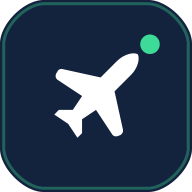
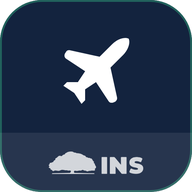
El correo de pólizas y el ícono de la app estrenan la marca de la casa
El correo que recibe el cliente pasa a la misma estética del aviso de cobro
y las cotizaciones de autos:

- Encabezado navy PLANO con el logo del INS. Se va el degradado: Outlook no
  lo dibuja y el correo se veía distinto según el programa.
- Filete de marca 60/25/10/5 bajo el encabezado, el mismo de los tres correos
  del cotizador.
- Los datos del viaje dejan las pastillitas de colores apiladas y pasan a
  bloques sobrios: rótulo en versalitas, el dato debajo, y los gastos médicos
  como la cifra grande que son (antes: 13 px al final de la fila).
- El número de póliza va dibujado como el sello del documento, con la banda
  "NÚMERO PÓLIZA INS" — el equivalente de la placa del cliente en autos.
  El ancho lo manda el número, no la banda.
- Pie navy con el logotipo SDI full color como IMAGEN (img/sdi-logo-email.png,
  el MISMO archivo del cotizador) y la nota legal de tres líneas. Va como
  imagen porque su tipografía está vectorizada y en correo las fuentes web no
  cargan: hecho con texto saldría en Arial.
- Fuera los emojis y las barras de color a la izquierda.

Las celdas que el PDF no trajo NO se dibujan: sin guiones ni datos inventados.
Verificado con dos viajeros y con uno solo.

Ícono de la PWA: se quita el punto verde y entra el INS al pie del avión, en
su propia banda (opción C de tres maquetas, elegida por JC). El navy #13233E y
el aro teal del ícono de hoy se conservan. El maskable lleva el dibujo al 80 %
[…]

Changed region(s): [[0.2812, 0.1562, 0.8438, 0.7188], [0.0, 0.0, 1.0, 1.0], [0.25, 0.7812, 0.75, 0.9375]]

diff --git a/agente/email.js b/agente/email.js
@@ -1,17 +1,120 @@
-// agente/email.js — HTML del correo (encabezado navy) + MIME multipart + envío Gmail.
+// agente/email.js — HTML del correo (marca SDI) + MIME multipart + envío Gmail.
+//
+// La imagen del correo es la MISMA de las cotizaciones de autos (25 ago 2026):
+//   - Encabezado navy PLANO con el logo del INS. Nada de degradados: Outlook
+//     no los dibuja y el correo se veía distinto según el programa.
+//   - Filete de marca 60/25/10/5 bajo el encabezado.
+//   - Los datos del viaje en bloques sobrios: rótulo en versalitas sobre una
+//     regla de 1 px. Sin barras de color a la izquierda (el tic de plantilla
+//     automática que JC pidió sacar) y sin emojis.
+//   - Pie navy con el logotipo SDI full color. Va como IMAGEN y no dibujado
+//     con texto: su tipografía está vectorizada en el kit y en correo las
+//     fuentes web no cargan, así que hecho con texto saldría en Arial.
 window.VEmail = (function () {
+  const SDI_COLORES = ['#0369A1', '#0D9488', '#EA580C', '#C9A227'];
+  const SDI_NAVY   = '#0c2340';
+  const SDI_VERDE  = '#047857';   // 5,48:1 con letra blanca
+  const SDI_GRIS   = '#64748b';
+  const SDI_LINEA  = '#e2e8f0';
+  const FF   = "'Space Grotesk','Poppins',Arial,Helvetica,sans-serif";
+  const FTXT = "'Inter',Arial,Helvetica,sans-serif";
+
   function esc(s) { return String(s == null ? '' : s).replace(/[&<>"']/g, c => ({ '&': '&amp;', '<': '&lt;', '>': '&gt;', '"': '&quot;', "'": '&#39;' }[c])); }
 
-  function filaViajero(v) {
-    const chips = [
-      v.poliza && `<span style="font-family:monospace;background:#e6f1fb;color:#0c447c;padding:3px 10px;border-radius:6px;font-size:14px;font-weight:700">${esc(v.poliza)}</span>`,
-      v.destino && `<span style="background:#eef2f7;color:#475569;padding:2px 8px;border-radius:6px;font-size:12px">${esc(v.destino)}</span>`,
-      (v.vigenciaDesde && v.vigenciaHasta) && `<span style="background:#eef2f7;color:#475569;padding:2px 8px;border-radius:6px;font-size:12px">${esc(v.vigenciaDesde)} &rarr; ${esc(v.vigenciaHasta)}</span>`
-    ].filter(Boolean).join(' ');
-    const med = v.gastosMedicos ? `<div style="margin-top:8px;font-size:13px;color:#0f6e56;font-weight:600">&#127973; Gastos médicos contratados: ${esc(v.gastosMedicos)}</div>` : '';
-    return `<tr><td style="padding:10px 12px;border-bottom:1px solid #e5e7eb">
-      <div style="font-weight:600;font-size:14px;color:#0f172a">${esc(v.cliente)}</div>
-      <div style="margin-top:6px;line-height:2">${chips}</div>${med}</td></tr>`;
+  /** Filete de marca: cuatro celdas de color 60/25/10/5. No es un degradado a propósito. */
+  function filete() {
+    const p = [60, 25, 10, 5];
+    return '<tr><td style="padding:0;font-size:0;line-height:0;">' +
+      '<table width="100%" cellpadding="0" cellspacing="0" border="0" role="presentation" ' +
+      'style="border-collapse:collapse;table-layout:fixed;"><tr>' +
+      SDI_COLORES.map(function (c, i) {
+        return '<td bgcolor="' + c + '" width="' + p[i] + '%" height="4" style="background:' + c +
+          ';width:' + p[i] + '%;height:4px;line-height:4px;font-size:0;">&nbsp;</td>';
+      }).join('') +
+      '</tr></table></td></tr>';
+  }
+
+  /** Rótulo en versalitas: el mismo de las cotizaciones de autos. */
+  function rotulo(t) {
+    return '<p style="margin:0 0 4px;font-size:10px;font-weight:700;color:' + SDI_GRIS +
+      ';letter-spacing:0.1em;text-transform:uppercase;">' + t + '</p>';
+  }
+
+  /** Bloque sobrio: rótulo sobre una regla de 1 px. Reemplaza a las cajas de color. */
+  function bloque(rot, contenido, padTop) {
+    return '<tr><td style="padding:' + (padTop == null ? 20 : padTop) + 'px 32px 0;">' +
+      '<table width="100%" cellpadding="0" cellspacing="0" border="0" style="border-top:1px solid ' + SDI_LINEA + ';">' +
+      '<tr><td style="padding:13px 0 0;">' + rotulo(rot) + contenido + '</td></tr></table></td></tr>';
+  }
+
+  /**
+   * El número de póliza dibujado como el sello que es: banda arriba y el número
+   * abajo. Es el equivalente de la placa del cliente en el correo de autos.
+   * 🔴 El ancho de la caja lo manda el NÚMERO, no la banda: si el rótulo de la
+   * banda crece más que el número de abajo, la caja se estira y deja de leerse
+   * como un sello. Con 8,5 px y 17 caracteres queda holgado.
+   */
+  function chapaPoliza(poliza) {
+    if (!poliza) return '';
+    return '<td align="right" valign="middle" style="padding:0 0 0 14px;">' +
+      '<table cellpadding="0" cellspacing="0" border="0" style="border:2px solid ' + SDI_NAVY + ';border-radius:5px;background:#ffffff;">' +
+        '<tr><td bgcolor="' + SDI_NAVY + '" style="background:' + SDI_NAVY + ';padding:3px 10px;text-align:center;">' +
+          '<span style="font-family:' + FF + ';font-size:8.5px;font-weight:700;color:#ffffff;letter-spacing:0.16em;">N&Uacute;MERO P&Oacute;LIZA INS</span></td></tr>' +
+        '<tr><td style="padding:5px 12px 6px;text-align:center;white-space:nowrap;">' +
+          '<span style="font-family:' + FF + ';font-size:15px;font-weight:700;color:' + SDI_NAVY +
+          ';letter-spacing:0.05em;white-space:nowrap;">' + esc(poliza) + '</span></td></tr>' +
+      '</table></td>';
+  }
+
+  /** Una celda del renglón de datos del viaje. */
+  function dato(rot, valor, ancho, alinear, grande) {
+    return '<td width="' + ancho + '%" align="' + alinear + '" valign="top" style="padding:0 0 16px;">' +
+      rotulo(rot) +
+      '<p style="margin:0;font-family:' + (grande ? FF : FTXT) + ';font-size:' + (grande ? '16px' : '13.5px') +
+      ';font-weight:' + (grande ? '700' : '500') + ';color:' + (grande ? '#0c4a6e' : '#334155') +
+      ';line-height:1.4;">' + valor + '</p></td>';
+  }
+
+  /**
+   * Tarjeta del viajero: quién viaja, con su póliza al lado, y debajo los datos
+   * del viaje. Las celdas que el PDF no trajo NO se dibujan: no se rellenan con
+   * un guion ni con un dato inventado.
+   */
+  function tarjetaViajero(v, i, total) {
+    const orden = total > 1
+      ? rotulo('Viajero ' + (i + 1) + ' de ' + total)
+      : rotulo('Viajero amparado');
+    const celdas = [];
+    if (v.destino) celdas.push({ rot: 'Destino', val: esc(v.destino) });
+    if (v.vigenciaDesde && v.vigenciaHasta) {
+      celdas.push({ rot: 'Vigencia', val: esc(v.vigenciaDesde) + ' &rarr; ' + esc(v.vigenciaHasta) });
+    }
+    if (v.gastosMedicos) {
+      celdas.push({ rot: 'Gastos m&eacute;dicos', val: esc(v.gastosMedicos), grande: true });
+    }
+
+    const anchos = ({ 1: [100], 2: [55, 45], 3: [36, 34, 30] })[celdas.length] || [];
+    const renglon = celdas.length
+      ? '<table width="100%" cellpadding="0" cellspacing="0" border="0"><tr>' +
+        celdas.map(function (c, k) {
+          const alinear = (k === celdas.length - 1 && celdas.length > 1) ? 'right' : 'left';
+          return dato(c.rot, c.val, anchos[k], alinear, c.grande);
+        }).join('') +
+        '</tr></table>'
+      : '';
+
+    return '<table width="100%" cellpadding="0" cellspacing="0" border="0" ' +
+      'style="border-bottom:1px solid ' + SDI_LINEA + ';">' +
+      '<tr><td style="padding:14px 0 10px;">' +
+        '<table width="100%" cellpadding="0" cellspacing="0" border="0"><tr>' +
+          '<td valign="middle">' + orden +
+            '<p style="margin:2px 0 0;font-family:' + FF + ';font-size:18px;font-weight:700;color:' + SDI_NAVY +
+            ';line-height:1.25;">' + esc(v.cliente || 'Viajero') + '</p></td>' +
+          chapaPoliza(v.poliza) +
+        '</tr></table>' +
+      '</td></tr>' +
+      (renglon ? '<tr><td>' + renglon + '</td></tr>' : '') +
+      '</table>';
   }
 
   // Lista de "Documentos adjuntos" armada con lo que el agente REALMENTE cargó,
@@ -22,12 +125,40 @@ window.VEmail = (function () {
       kinds.add(f.vKind || (window.VParse ? VParse.classifyFile(f.name, '') : 'otro'));
     }));
     const items = [];
-    if (kinds.has('poliza') && kinds.has('tarjeta')) items.push('Póliza y tarjeta de asistencia de cada viajero');
-    else if (kinds.has('poliza')) items.push('Póliza de cada viajero');
+    if (kinds.has('poliza') && kinds.has('tarjeta')) items.push('P&oacute;liza y tarjeta de asistencia de cada viajero');
+    else if (kinds.has('poliza')) items.push('P&oacute;liza de cada viajero');
     else if (kinds.has('tarjeta')) items.push('Tarjeta de asistencia de cada viajero');
     if (kinds.has('comprobante')) items.push('Comprobante de pago');
     items.push('Condiciones generales y Manual de reembolsos');
-    return items.map(t => '&#9989; ' + esc(t)).join('<br>');
+    return items.map(function (t) {
+      return '<span style="color:' + SDI_COLORES[0] + ';font-weight:700;">&#8226;</span>&nbsp;&nbsp;' + t;
+    }).join('<br>');
+  }
+
+  /**
+   * Pie con el logotipo SDI full color y la nota legal completa.
+   * Grises: #94a3b8 da 6,16:1 sobre el navy. La licencia SUGESE es dato
+   * regulatorio y no puede ir en un gris que no llegue a AA.
+   */
+  function pieSDI(A, logo) {
+    const linea = function (t, top) {
+      return '<p style="margin:' + top + 'px 0 0;font-size:10.5px;color:#94a3b8;line-height:1.6;">' + t + '</p>';
+    };
+    const web = String(A.web || '').replace(/^https?:\/\//i, '').trim();
+    return '<tr><td bgcolor="' + SDI_NAVY + '" style="background:' + SDI_NAVY + ';color:#cbd5e1;padding:30px 32px 26px;text-align:center;">' +
+      // 120 px sobre un correo de 600: el pie firma, no compite con el contenido.
+      '<img src="' + esc(logo) + '" alt="Seguros Digitales SDI" width="120" style="display:block;margin:0 auto;border:0;outline:none;text-decoration:none;width:120px;height:auto;" />' +
+      '<p style="margin:18px 0 0;font-size:12px;">' +
+        '<a href="mailto:' + esc(A.correo) + '" style="color:#7dd3fc;text-decoration:none;font-weight:600;">' + esc(A.correo) + '</a>' +
+        (web ? ' &middot; <a href="https://' + esc(web) + '" style="color:#7dd3fc;text-decoration:none;font-weight:600;">' + esc(web) + '</a>' : '') +
+      '</p>' +
+      '<p style="margin:6px 0 0;font-size:12px;color:#cbd5e1;">Tel: ' + esc(A.tel) + '</p>' +
+      '<table width="100%" cellpadding="0" cellspacing="0" border="0" style="margin-top:18px;"><tr>' +
+        '<td style="border-top:1px solid #1e3a5f;height:1px;line-height:1px;font-size:0;">&nbsp;</td></tr></table>' +
+      linea('&copy; Propiedad intelectual de ' + esc(A.nombre), 14) +
+      linea('Seguros Digitales SDI &mdash; Todos los derechos reservados', 3) +
+      linea('Agente exclusivo INS &middot; Licencia SUGESE ' + esc(A.licencia), 3) +
+      '</td></tr>';
   }
 
   function buildHtml(envio) {
@@ -39,47 +170,108 @@ window.VEmail = (function () {
     // CTA "Comprar de nuevo": link de cotización INS del agente (con SU código
     // de intermediario); fallback al de JC si el perfil no lo tiene.
     const cotizaLink = A.cotizaLink || C.COTIZA_LINK;
-    const lineaLicencia = ['Licencia Sugese ' + (A.licencia || ''), A.codigo ? 'Código ' + A.codigo : '']
-      .filter(s => s && s !== 'Licencia Sugese ').join(' · ');
-    const lineaContacto = [A.tel, A.correo, A.web].filter(Boolean).join(' &middot; ');
-    const viajeros = (envio.viajeros || []).map(filaViajero).join('');
-    return `<!DOCTYPE html><html><body style="margin:0;background:#f1f5f9;font-family:Arial,Helvetica,sans-serif">
-<table role="presentation" width="100%" cellpadding="0" cellspacing="0" style="background:#f1f5f9"><tr><td align="center" style="padding:18px">
-<table role="presentation" width="600" cellpadding="0" cellspacing="0" style="max-width:600px;background:#ffffff;border-radius:12px;overflow:hidden">
-  <tr><td style="background:#13477e;background:linear-gradient(135deg,#0b2545 0%,#13477e 55%,#1c6fb8 100%);padding:20px 22px">
-    <div style="font-size:20px;font-weight:700;color:#ffffff">Seguro INS Viajero</div>
-    <div style="font-size:13px;color:#b5d4f4;margin-top:3px">Su viaje, protegido en todo el mundo &middot; INS</div>
-  </td></tr>
-  <tr><td style="padding:18px 22px">
-    <p style="font-size:14px;margin:0 0 10px">Estimado(a) ${esc(envio.saludo)}, &#128075;</p>
-    <p style="font-size:14px;color:#475569;line-height:1.7;margin:0 0 16px">Es un gusto saludarle. Le confirmo que su Seguro INS Viajero con Asistencia ya está activo y listo para proteger a los viajeros en esta aventura.</p>
-    <div style="font-size:12px;color:#64748b;font-weight:600;margin-bottom:6px">Viajeros amparados</div>
-    <table role="presentation" width="100%" cellpadding="0" cellspacing="0" style="border:1px solid #e5e7eb;border-radius:8px;margin-bottom:16px">${viajeros}</table>
-    <div style="background:#ecfdf5;border-radius:8px;padding:14px;text-align:center;margin-bottom:16px">
-      <div style="font-size:13px;font-weight:600;color:#0f6e56;margin-bottom:8px">Centro de asistencia 24/7</div>
-      <a href="${esc(guiaLink)}" style="display:inline-block;background:#0f6e56;color:#e1f5ee;font-size:14px;font-weight:600;text-decoration:none;padding:10px 18px;border-radius:8px">&#128241; Abrir mi guía de emergencias</a>
-      <div style="font-size:12px;color:#64748b;margin-top:8px">Ábrala en el celular y elija "Añadir a pantalla de inicio" para tenerla siempre a mano como una App.</div>
-    </div>
-    <div style="font-size:12px;color:#64748b;font-weight:600;margin-bottom:6px">Documentos adjuntos</div>
-    <div style="font-size:13px;color:#334155;line-height:1.9;margin-bottom:16px">
-      ${listaAdjuntos(envio)}
-    </div>
-    <div style="font-size:12px;color:#64748b;font-weight:600;margin-bottom:6px">Contactos de emergencia</div>
-    <div style="font-size:13px;color:#334155;line-height:1.9;margin-bottom:16px">
-      USA (gratuito): ${esc(C.EMERGENCIA.usa)}<br>España (gratuito): ${esc(C.EMERGENCIA.espana)}<br>Resto del mundo: ${esc(C.EMERGENCIA.mundo)}<br>Correo: ${esc(C.EMERGENCIA.email)}
-    </div>
-    <div style="background:#fffbeb;border-radius:8px;padding:10px 12px;font-size:12px;color:#92400e;line-height:1.6;margin-bottom:16px">
-      &#9888;&#65039; <b>Importante:</b> ante cualquier emergencia médica, contacte primero a la Unidad de Asistencia del INS. Tenga a mano su pasaporte y número de póliza.
-    </div>
-    <div style="border-top:1px solid #e5e7eb;padding-top:12px;font-size:12px;color:#64748b;line-height:1.7">
-      <b style="color:#0f172a">${esc(A.nombre)}</b><br>${esc(A.rol)}<br>${esc(lineaLicencia)}<br>${lineaContacto}
-    </div>
-    <div style="margin-top:14px;background:#f8fafc;border-radius:8px;padding:12px;text-align:center">
-      <div style="font-size:12px;color:#64748b;margin-bottom:8px">¿Planeando su próximo viaje?</div>
-      <a href="${esc(cotizaLink)}" style="display:inline-block;font-size:13px;color:#13477e;text-decoration:none;border:1px solid #c7d2e0;border-radius:8px;padding:8px 16px">&#9992;&#65039; Comprar de nuevo un Seguro INS Viajero</a>
-    </div>
-  </td></tr>
-</table></td></tr></table></body></html>`;
+    // Los dos logos van hosteados en el propio sitio: en correo no sirven ni el
+    // SVG ni el base64, Gmail los bloquea.
+    const logoIns = C.LOGO_INS_URL;
+    const logoSdi = C.LOGO_SDI_URL;
+
+    const lineaLicencia = ['Licencia Sugese ' + (A.licencia || ''), A.codigo ? 'C&oacute;digo ' + A.codigo : '']
+      .filter(s => s && s !== 'Licencia Sugese ').join(' &middot; ');
+    const total = (envio.viajeros || []).length;
+    const viajeros = (envio.viajeros || []).map((v, i) => tarjetaViajero(v, i, total)).join('');
+
+    return '<!DOCTYPE html><html lang="es"><head><meta charset="UTF-8">' +
+'<meta name="viewport" content="width=device-width, initial-scale=1.0">' +
+'<title>Su Seguro INS Viajero est&aacute; activo</title>' +
+'<!--[if !mso]><!-->' +
+'<link href="https://fonts.googleapis.com/css2?family=Space+Grotesk:wght@500;600;700&family=Inter:wght@400;500;600;700&display=swap" rel="stylesheet">' +
+'<!--<![endif]--></head>' +
+'<body style="margin:0;padding:0;background:#f5f5f5;font-family:' + FTXT + ';">' +
+'<table width="100%" cellpadding="0" cellspacing="0" border="0" style="background:#f5f5f5;padding:24px 0;"><tr><td align="center">' +
+'<table width="600" cellpadding="0" cellspacing="0" border="0" style="background:#ffffff;border-radius:12px;overflow:hidden;max-width:600px;box-shadow:0 4px 20px rgba(12,35,64,.08);">' +
+
+  // 1 · Encabezado + filete de marca
+  '<tr><td bgcolor="' + SDI_NAVY + '" style="background:' + SDI_NAVY + ';color:#ffffff;padding:26px 32px;text-align:center;">' +
+    '<img src="' + esc(logoIns) + '" alt="INS" height="44" style="display:block;margin:0 auto 10px;border:0;outline:none;text-decoration:none;height:44px;">' +
+    '<h1 style="margin:0;font-family:' + FF + ';font-size:21px;font-weight:700;letter-spacing:-.01em;">Seguro INS Viajero</h1>' +
+    '<p style="margin:6px 0 0;font-size:12px;opacity:.78;">Con Asistencia &middot; Su viaje protegido en todo el mundo</p>' +
+  '</td></tr>' +
+  filete() +
+
+  // 2 · Saludo + confirmación
+  '<tr><td style="padding:26px 32px 0;">' +
+    '<p style="margin:0 0 14px;font-family:' + FF + ';font-size:18px;font-weight:700;color:' + SDI_NAVY + ';">Hola ' + esc(envio.saludo) + ',</p>' +
+    '<table width="100%" cellpadding="0" cellspacing="0" border="0" style="background:#ecfdf5;border:1px solid #a7f3d0;border-radius:10px;">' +
+      '<tr><td style="padding:14px 18px;font-size:14px;line-height:1.6;color:#065f46;">' +
+        'Es un gusto saludarle. Le confirmo que su <b style="color:' + SDI_NAVY + ';">Seguro INS Viajero con Asistencia</b> ' +
+        '<b style="color:' + SDI_VERDE + ';">ya se encuentra activo</b> y listo para proteger ' +
+        (total > 1 ? 'a los ' + total + ' viajeros' : 'el viaje') + '.' +
+      '</td></tr></table>' +
+  '</td></tr>' +
+
+  // 3 · Los datos del viaje
+  '<tr><td style="padding:22px 32px 0;">' +
+    '<h2 style="margin:0 0 2px;font-family:' + FF + ';font-size:13px;font-weight:700;color:' + SDI_NAVY +
+      ';text-transform:uppercase;letter-spacing:.05em;border-bottom:2px solid ' + SDI_COLORES[0] + ';padding-bottom:8px;">' +
+      (total > 1 ? total + ' viajeros amparados' : 'El viaje amparado') + '</h2>' +
+    viajeros +
+  '</td></tr>' +
+
+  // 4 · Centro de asistencia
+  '<tr><td style="padding:22px 32px 0;">' +
+    '<table width="100%" cellpadding="0" cellspacing="0" border="0" style="background:#f0f9ff;border:1px solid #bae6fd;border-radius:10px;">' +
+      '<tr><td style="padding:18px;text-align:center;">' +
+        '<p style="margin:0 0 4px;font-family:' + FF + ';font-size:14px;font-weight:700;color:#0c4a6e;">Centro de asistencia 24/7</p>' +
+        '<p style="margin:0 0 12px;font-size:12px;color:#475569;line-height:1.55;">Si necesita un m&eacute;dico o le pasa algo en el viaje, esta gu&iacute;a le dice qu&eacute; hacer paso a paso y le conecta al instante con el contacto correcto.</p>' +
+        '<a href="' + esc(guiaLink) + '" style="display:inline-block;background:' + SDI_VERDE + ';color:#ffffff;text-decoration:none;border-radius:10px;padding:13px 26px;font-family:' + FF + ';font-weight:700;font-size:14px;">Abrir mi gu&iacute;a de emergencias &rarr;</a>' +
+        '<p style="margin:10px 0 0;font-size:11px;color:' + SDI_GRIS + ';line-height:1.5;">&Aacute;brala en el celular y elija <b>"A&ntilde;adir a pantalla de inicio"</b> para tenerla siempre a mano, como una App. Sin descargas.</p>' +
+      '</td></tr></table>' +
+  '</td></tr>' +
+
+  // 5 · Adjuntos
+  bloque('Documentos adjuntos',
+    '<p style="margin:0;font-size:13px;color:#334155;line-height:1.95;">' + listaAdjuntos(envio) + '</p>') +
+
+  // 6 · Contactos de emergencia
+  bloque('Contactos de emergencia (gu&aacute;rdelos)',
+    '<p style="margin:0;font-size:13px;color:#334155;line-height:1.9;">' +
+      'USA (gratuito): <b style="color:' + SDI_NAVY + ';">' + esc(C.EMERGENCIA.usa) + '</b><br>' +
+      'Espa&ntilde;a (gratuito): <b style="color:' + SDI_NAVY + ';">' + esc(C.EMERGENCIA.espana) + '</b><br>' +
+      'Resto del mundo: <b style="color:' + SDI_NAVY + ';">' + esc(C.EMERGENCIA.mundo) + '</b><br>' +
+      'Correo: ' + esc(C.EMERGENCIA.email) + '</p>') +
+
+  // 7 · El único aviso del correo: la señal va arriba, no como barra a la izquierda
+  '<tr><td style="padding:18px 32px 0;">' +
+    '<table width="100%" cellpadding="0" cellspacing="0" border="0" style="background:#fffbeb;border:1px solid #fde68a;border-top:3px solid #f59e0b;border-radius:8px;">' +
+      '<tr><td width="30" valign="top" style="padding:12px 0 12px 14px;color:#b45309;font-size:16px;line-height:1.2;">&#9888;</td>' +
+      '<td valign="top" style="padding:12px 14px 12px 4px;">' +
+        '<p style="margin:0;font-size:12px;color:#78350f;line-height:1.55;"><b style="color:#422006;">Importante:</b> ante cualquier emergencia m&eacute;dica contacte primero a la Unidad de Asistencia del INS. Tenga a mano su pasaporte y su n&uacute;mero de p&oacute;liza.</p>' +
+      '</td></tr></table>' +
+  '</td></tr>' +
+
+  // 8 · Firma
+  '<tr><td style="padding:24px 32px 0;">' +
+    '<table width="100%" cellpadding="0" cellspacing="0" border="0" style="border-top:1px solid ' + SDI_LINEA + ';"><tr><td style="padding:18px 0 0;">' +
+      '<p style="margin:0;font-size:13px;color:#475569;line-height:1.5;">Quedo a su entera disposici&oacute;n para cualquier consulta. Atentamente,</p>' +
+      '<p style="margin:10px 0 0;font-family:' + FF + ';font-weight:700;color:' + SDI_NAVY + ';font-size:14px;">' + esc(A.nombre) + '</p>' +
+      '<p style="margin:2px 0 0;font-size:11px;color:' + SDI_GRIS + ';line-height:1.6;">' + esc(A.rol) + '<br>' + lineaLicencia +
+        (A.tel ? '<br>Tel: ' + esc(A.tel) : '') + '</p>' +
+    '</td></tr></table>' +
+  '</td></tr>' +
+
+  // 9 · Comprar de nuevo
+  '<tr><td style="padding:20px 32px 28px;">' +
+    '<table width="100%" cellpadding="0" cellspacing="0" border="0" style="background:#f8fafc;border:1px solid #eef2f7;border-radius:10px;">' +
+      '<tr><td style="padding:14px;text-align:center;">' +
+        '<p style="margin:0 0 8px;font-size:12px;color:' + SDI_GRIS + ';">&iquest;Planeando su pr&oacute;ximo viaje?</p>' +
+        '<a href="' + esc(cotizaLink) + '" style="display:inline-block;font-family:' + FF + ';font-size:13px;font-weight:600;color:' + SDI_COLORES[0] +
+          ';text-decoration:none;border:1px solid #c7d2e0;border-radius:8px;padding:9px 18px;background:#ffffff;">Comprar de nuevo un Seguro INS Viajero</a>' +
+      '</td></tr></table>' +
+  '</td></tr>' +
+
+  pieSDI(A, logoSdi) +
+
+'</table></td></tr></table></body></html>';
   }
 
   const MIME_POR_EXT = {

diff --git a/agente/index.html b/agente/index.html
@@ -131,9 +131,10 @@
   <footer class="max-w-5xl mx-auto px-4 pb-10 pt-4">
     <details class="text-[11px] text-slate-400 border-t pt-3">
       <summary class="cursor-pointer select-none hover:text-slate-600">
-        Última actualización: <b class="font-semibold">24 ago 2026</b> — la página del cliente se rediseñó por completo y ahora se instala como app
+        Última actualización: <b class="font-semibold">25 ago 2026</b> — el correo que recibe el cliente estrena la imagen de la casa, y el ícono de la app cambió
       </summary>
       <ul class="mt-2 space-y-1.5 leading-relaxed">
+        <li><b class="font-semibold text-slate-500">25 ago 2026</b> — <b>El correo de envío de pólizas ahora se ve igual que el aviso de cobro y las cotizaciones de autos.</b> Los datos del viaje dejaron de ser pastillitas de colores apiladas: cada viajero muestra su destino, su vigencia y <b>el monto de gastos médicos como la cifra grande que es</b>, y el número de póliza va dibujado como el sello del documento, con el rótulo «Número Póliza INS». Arriba entra el logo del INS y la línea de colores de la marca; abajo, el logotipo de Seguros Digitales SDI a todo color con la nota legal. Se fueron los emojis y las barras de color a la izquierda. <b>El ícono de la app también cambió</b>: se quitó el punto verde y en su lugar va el INS al pie del avión, para que se reconozca de una vez en la pantalla del teléfono. Ojo: a quien ya tenga la app instalada le queda el ícono viejo hasta que la vuelva a agregar a la pantalla de inicio. Los adjuntos, los mensajes de WhatsApp y la lectura de los PDF no se tocaron.</li>
         <li><b class="font-semibold text-slate-500">24 ago 2026 · noche</b> — <b>La página del cliente se rediseñó por completo</b> (diseño «Torre de Control»: modo nocturno con la tipografía SDI) y ahora es una <b>app instalable</b>: el cliente la agrega a la pantalla de inicio de su teléfono con su propio ícono, y una vez instalada <b>funciona incluso sin internet</b>. Se agregó el acceso directo «¿Qué le pasó?» que lleva al trámite correcto, la tabla de sublímites fijos y el 800-TeleINS para consultas desde Costa Rica; todos los datos se verificaron contra las Condiciones Generales V5 vigentes, y se precisó la regla de pérdida de equipaje (la restricción del viaje de regreso aplica a la pérdida temporal, y la de vía terrestre a la definitiva). Si el cliente instala la app desde su link personalizado, la app recuerda a su agente. El registro de cambios se quitó de la página del cliente por decisión de JC — el historial completo vive acá. El link personalizado por agente, los textos de compartir y el correo de la consola no cambiaron.</li>
         <li><b class="font-semibold text-slate-500">24 ago 2026</b> — Ahora podés <b>arrastrar los ZIP tal como los manda el INS</b>, o la carpeta entera: la consola los abre sola, saca de cada uno la <b>oferta-constancia y la tarjeta de asistencia</b>, y arma <b>una tarjeta por póliza</b>. Nueve viajeros se cargan de una sola vez. Antes, al soltar varias pólizas juntas todas caían en el mismo asegurado y solo quedaban los datos de la última; y al entrar a la consola no aparecía ninguna zona donde soltar los archivos hasta agregar un asegurado a mano. Las Condiciones Generales que el INS repite dentro de cada ZIP <b>ya no se adjuntan nueve veces</b> (el correo las lleva una sola vez), y abajo se dice qué archivos quedaron fuera y por qué. Mientras se abren los ZIP se ve una barra con el avance. Los <b>PDF sueltos</b> se cargan igual que antes — arrastralos o usá “Elegir PDF o ZIP”, y también se reparten solos por póliza; podés mezclar ZIP y PDF en el mismo arrastre. 🔴 Si arrastrás archivos <b>desde adentro de un ZIP abierto en el Explorador de Windows</b>, Windows no se los entrega al navegador y no llega nada: antes la pantalla se quedaba muda y parecía que la app no te dejaba; ahora te lo dice y te explica qué hacer. Además, las <b>Condiciones Generales que se adjuntan al correo se actualizaron</b> a la versión que el INS viene entregando desde el 8 de julio: la app seguía mandando la anterior. Es el mismo seguro y el mismo registro ante SUGESE — cambió la numeración de páginas y el pie del documento, no las coberturas.</li>
         <li><b class="font-semibold text-slate-500">21 ago 2026</b> — La pantalla se partió en <b>tres pasos: Cargar, Revisar y Enviar</b>, y se ve uno solo a la vez. Antes todo estaba en la misma pantalla larga y quedaban cinco botones casi seguidos: tres para <i>elegir</i> por dónde mandarlo y dos más para mandarlo, sin forma de distinguirlos. Ahora el canal se elige con tres tarjetas que explican qué manda cada una, y abajo queda <b>un solo botón</b> que dice a quién le llega ("Enviar el correo a maría@…"); la vista previa bajó a un enlace chiquito debajo. El panel <b>⚙ Mi información de agente</b> se fue arriba al encabezado, así la pantalla arranca directo en el trabajo del día. Se agregó un atajo para el cliente que compró la póliza por su cuenta, que salta directo al mensaje de WhatsApp. Nada cambió en lo que recibe el cliente: el correo, los adjuntos y los mensajes de WhatsApp son los mismos.</li>

diff --git a/agente/config.js b/agente/config.js
@@ -12,6 +12,14 @@ window.VCfg = {
   ],
   APP_LINK: 'https://appasistenciainsviajero.netlify.app/',
   COTIZA_LINK: 'https://cotiza.ins-cr.com/frmDatosIncluir.aspx?P=99&A=1101130',
+  // Los dos logos del correo. 🔴 Van con URL ABSOLUTA y hosteados en el propio
+  // sitio: en un correo no sirve ni la ruta relativa, ni el SVG, ni el base64
+  // (Gmail los bloquea). El del INS abre el encabezado — el correo es cara al
+  // cliente — y el de SDI firma el pie, con las cuatro barras a color. Es el
+  // MISMO archivo que usan los tres correos del cotizador de autos: si alguna
+  // vez se regenera, se regenera en los dos repos.
+  LOGO_INS_URL: 'https://appasistenciainsviajero.netlify.app/img/ins-logo.png',
+  LOGO_SDI_URL: 'https://appasistenciainsviajero.netlify.app/img/sdi-logo-email.png',
   // Documentos que van adjuntos en TODO correo, una sola vez (no por viajero).
   // 🔴 assets/condiciones.pdf es el "DERSA+CG Seguro INS Viajero con Asistencia
   // Autoexpedible V5" que el propio INS mete dentro de cada ZIP de póliza.

diff --git a/sw.js b/sw.js
@@ -4,7 +4,7 @@
    - Sin internet: sirve la última copia buena — la guía de emergencia
      tiene que abrir aunque el roaming falle.
    Al cambiar la versión del caché, el activate borra los viejos. */
-var CACHE = 'viajero-v1';
+var CACHE = 'viajero-v2';   // v2: iconos nuevos (25 ago 2026)
 var CORE = [
   './',
   './index.html',
